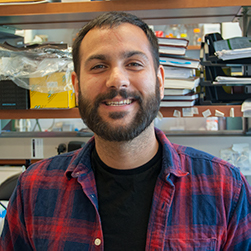
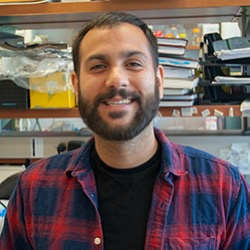
fix: crop and shrink the team photos
The card photo fills the width of its column, and object-fit crops what
does not fit, so a photo keeps its proportions whatever shape the file
has. aspect-ratio holds the space before the file arrives.

Every photo is a 250x250 thumbnail now, scaled on its shorter side and
then cropped. The directory drops from 2MB to 464K. Teresa Palomero
stays 250x376, because the wide card shows her portrait beside the text.

diff --git a/static/assets/css/styles.css b/static/assets/css/styles.css
@@ -18,6 +18,24 @@ footer.bg-dark {
   background-size: cover;
 }
 
+/* Team photos fill the width of the card. object-fit crops the overflow, so a
+   photo keeps its proportions whatever shape the file has. aspect-ratio holds
+   the space before the file arrives, which stops the page from jumping. */
+.card-img-top {
+  width: 100%;
+  aspect-ratio: 1 / 1;
+  object-fit: cover;
+  object-position: center 20%;
+}
+
+/* The wide card puts the photo beside the text. It keeps a portrait shape and
+   stops growing on a large screen. */
+.card .col-auto .card-img-top {
+  width: 250px;
+  max-width: 100%;
+  aspect-ratio: 3 / 4;
+}
+
 .publication-list {
   padding-bottom: 1rem;
 }
